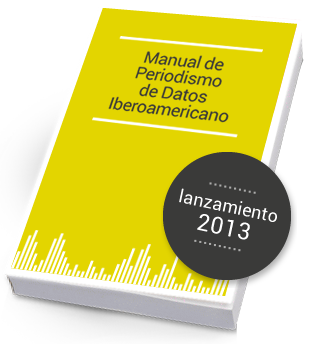
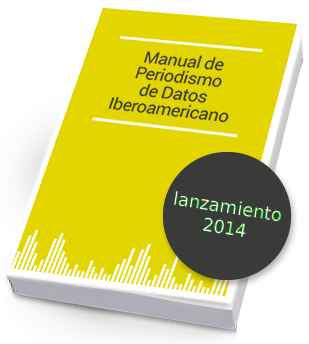
Archivos modificados 19 junio 2014

Changed region(s): [[0.5534, 0.5523, 0.932, 0.7267], [0.6699, 0.5233, 0.7864, 0.5523], [0.6408, 0.6977, 0.6699, 0.7267]]

diff --git a/templates/manual.html b/templates/manual.html
@@ -59,18 +59,31 @@
   <h3><strong>¿Cuál es el Cronograma?</strong></h3>
   <p>      El cronograma de escritura es el siguiente:<br />
       <br />
-      Marzo-Mayo 2013<br />
+      Mayo-Junio 2014<br />
       Escritura colaborativa del Manual<br />
       <br />
-      Junio-Julio 2013<br />
+      Junio-Julio 2014<br />
       Edición del Manual<br />
       <br />
-      Agosto 2013<br />
+      Agosto 2014<br />
       Lanzamiento del Manual</p>
   <h3><strong>¿Quién está detrás de esta iniciativa?</strong></h3>
-     <p>El Manual de Periodismo de Datos Iberocamericano es una iniciativa de la <a href="http://poderomedia.org/">Fundación Poderomedia</a>, con el apoyo del programa<a href="http://www.icfj.org/our-work/knight/"> Knight International Journalism Fellow</a> del<a href="http://www.icfj.org/"> International Center for Journalism</a>. <br />
-      <br />
-  </p>
+     <p>El Manual de Periodismo de Datos Iberoamericano es una iniciativa de la <a href="http://poderomedia.org/">Fundación Poderomedia</a>, con el apoyo del programa<a href="http://www.icfj.org/our-work/knight/"> Knight International Journalism Fellow</a> del<a href="http://www.icfj.org/"> International Center for Journalism</a>.</p>
+     <!-- <ul class="list">
+     <li>
+     </li>
+     <li>
+       <a href="http://www.cide.edu/">Centro de Investigación y Docencia Económicas, CIDE, de México</a>
+     </li>
+     <li>
+       <a href="http://periodismo.uahurtado.cl/">Escuela de Periodismo de la Universidad Alberto Hurtado (Chile)</a>
+     </li>
+     <li>
+       <a href="http://www.hivos.org">Fundación Hivos</a>
+     </li>
+     <li>
+       <a href="http://www.omidyar.com/">Omidyar Network</a>
+     </li> -->
   <h3><strong>¿Bajo qué formato y licencia se publicará el Manual? </strong></h3>
       <p>Será publicado en formato web (html), ebook y, de ser posible, en papel. Todo el contenido estará <a href="http://creativecommons.org/licenses/by-sa/3.0/deed.es">bajo licencia Creative Commons 3.0 Atribución-Compartir Igual.</a><br />
       <br />

diff --git a/templates/index.html b/templates/index.html
@@ -14,7 +14,7 @@
 
                     <div class="span8 clearfix">
                         <div class="text pull-left">
-                            <p>Estamos escribiendo el Manual de Periodismo de Datos, un proyecto gratuito y abierto, realizado de forma colaborativa y voluntaria por periodistas, desarrolladores y diseñadores. Su objetivo es dar cuenta del estado del Periodismo de Datos en Iberoamérica y cómo desarrollar Periodismo de Datos en nuestros países.</p>
+                            <p>Estamos escribiendo el Manual de Periodismo de Datos Iberoamericano, un proyecto gratuito y abierto, realizado de forma colaborativa y voluntaria por periodistas, desarrolladores y diseñadores. Su objetivo es dar cuenta del estado del Periodismo de Datos en Iberoamérica y cómo desarrollar Periodismo de Datos en nuestros países.</p>
 
                             <p>Incluye temas como:</p>
                             <ul class="list">
@@ -86,14 +86,15 @@
                         <strong>Algunas de las personas y organizaciones que están participando en la elaboración del Manual:</strong>
 
                         <ul class="chapters">
+
                             <li>Sandra Crucianelli (Argentina)</li>
-                            <li><a href="#">Mariano Blejman</a> (Argentina)</li>
+                            <li>Mariano Blejman (Argentina)</li>
                             <li>Hacks/Hackers Buenos Aires</li>
                             <li>Gustavo Faleiros (Brasil)</li>
                             <li>Hacks/Hackers Sao Paulo</li>
                             <li>Hack/Hackers Santiago</li>
-                            <li><a href="#">Mariana Santos</a> (Portugal)</li>
-                            <li><a href="#">Jorge Luis Sierra</a> (México)</li>
+                            <li>Mariana Santos (Portugal)</li>
+                            <li>Jorge Luis Sierra (México)</li>
                             <li>Fundación Civio (España)</li>
                         </ul>
 

diff --git a/templates/participantes.html b/templates/participantes.html
@@ -27,8 +27,6 @@
 
 
 					<div class="span8">
-                        <h3><strong>Alemania/Colombia</strong></h3>
-                        <p><a href="http://twitter.com/viejosaulo">Saul Lozano</a></p>
                         <h3><strong>Argentina</strong></h3>
                         <p><a href="http://twitter.com/spcrucianelli">Sandra Crucianelli</a>, <a href="http://www.icfj.org/about/profiles/sandra-crucianelli">ICFJ Knight International Journalism Fellow</a> <br />
                           <a href="http://twitter.com/blejman">Mariano Blejman</a>, <a href="http://www.icfj.org/our-work/argentina-launch-innovation-challenge-promote-development-digital-media-latin-america">ICFJ Knight International Journalism Fellow</a>, co fundador <a href="http://hhba.info/">HacksHackers Buenos Aires</a> <br />
